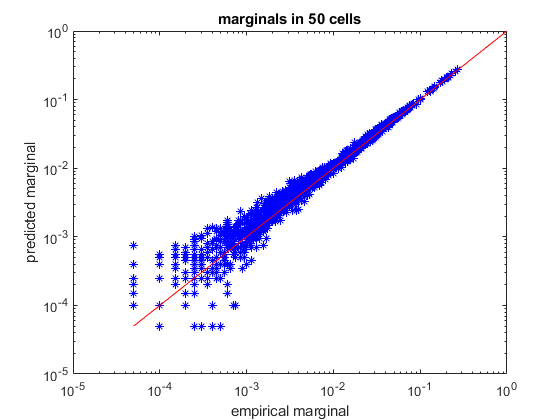
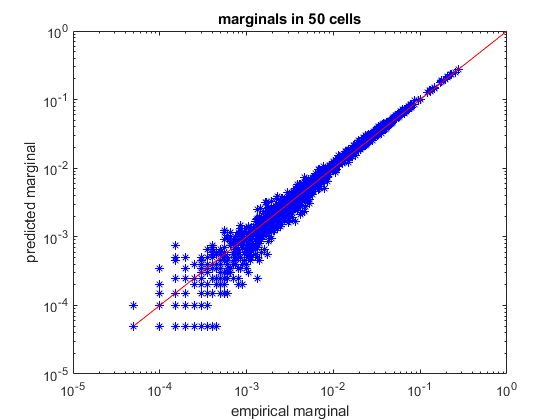
replaced sparsity with indegree in the example (RP)

diff --git a/docs/maxent_example.html b/docs/maxent_example.html
@@ -6,7 +6,7 @@
    <!--
 This HTML was auto-generated from MATLAB code.
 To make changes, update the MATLAB code and republish this document.
-      --><title>maxent_example</title><meta name="generator" content="MATLAB 9.3"><link rel="schema.DC" href="http://purl.org/dc/elements/1.1/"><meta name="DC.date" content="2018-07-09"><meta name="DC.source" content="maxent_example.m"><style type="text/css">
+      --><title>maxent_example</title><meta name="generator" content="MATLAB 9.3"><link rel="schema.DC" href="http://purl.org/dc/elements/1.1/"><meta name="DC.date" content="2018-08-07"><meta name="DC.source" content="maxent_example.m"><style type="text/css">
 html,body,div,span,applet,object,iframe,h1,h2,h3,h4,h5,h6,p,blockquote,pre,a,abbr,acronym,address,big,cite,code,del,dfn,em,font,img,ins,kbd,q,s,samp,small,strike,strong,sub,sup,tt,var,b,u,i,center,dl,dt,dd,ol,ul,li,fieldset,form,label,legend,table,caption,tbody,tfoot,thead,tr,th,td{margin:0;padding:0;border:0;outline:0;font-size:100%;vertical-align:baseline;background:transparent}body{line-height:1}ol,ul{list-style:none}blockquote,q{quotes:none}blockquote:before,blockquote:after,q:before,q:after{content:'';content:none}:focus{outine:0}ins{text-decoration:none}del{text-decoration:line-through}table{border-collapse:collapse;border-spacing:0}
 
 html { min-height:100%; margin-bottom:1px; }
@@ -118,9 +118,9 @@ title(sprintf(<span class="string">'marginals in %d cells'</span>,ncells));
 </pre><pre class="codeoutput">Training to threshold: 1.000 standard deviations
 Maximum MSE: 1.000
 converged (marginals match)
-Standard deviations from marginals: 0.090 (mean), 0.968 (max) [9]  DKL: 0.097
-Kullback-Leibler divergence from test set: 0.107325
-Model entropy: 6.470   empirical dataset entropy: 6.369
+Standard deviations from marginals: 0.097 (mean), 0.987 (max) [9]  DKL: 0.102
+Kullback-Leibler divergence from test set: 0.098116
+Model entropy: 6.464   empirical dataset entropy: 6.384
 </pre><img vspace="5" hspace="5" src="maxent_example_01.png" alt=""> <h2 id="3">part 2: working with larger distributions of neurons (MCMC)</h2><pre class="codeinput">load <span class="string">example50</span>
 
 <span class="comment">% randomly divide into train/test sets</span>
@@ -198,34 +198,33 @@ simulated_empirical_distribution = maxent.getEmpiricalModel(samples_simulated);
 fprintf(<span class="string">'Entropy of simulated data: %.03f bits\n'</span>,simulated_empirical_distribution.entropy);
 </pre><pre class="codeoutput">Training to threshold: 1.500 standard deviations
 Maximum samples: 17778   maximum MSE: 3.375
-360/Inf samples=5411  MSE=6.481 (mean), 58.812 (max) [43]
-434/Inf samples=11352  MSE=3.961 (mean), 59.231 (max) [2]
-477/Inf samples=17437  MSE=2.877 (mean), 49.526 (max) [2]
-511/Inf samples=17778  MSE=2.059 (mean), 31.914 (max) [40]
-545/Inf samples=17778  MSE=1.761 (mean), 28.907 (max) [12]
-581/Inf samples=17778  MSE=1.737 (mean), 15.406 (max) [13]
-617/Inf samples=17778  MSE=1.581 (mean), 8.481 (max) [31]
-652/Inf samples=17778  MSE=1.751 (mean), 11.608 (max) [410]
-687/Inf samples=17778  MSE=1.579 (mean), 11.190 (max) [398]
-722/Inf samples=17778  MSE=1.704 (mean), 8.920 (max) [1147]
-756/Inf samples=17778  MSE=1.616 (mean), 10.387 (max) [12]
-790/Inf samples=17778  MSE=1.516 (mean), 9.892 (max) [12]
-824/Inf samples=17778  MSE=1.536 (mean), 4.847 (max) [12]
-858/Inf samples=17778  MSE=1.595 (mean), 5.220 (max) [675]
-892/Inf samples=17778  MSE=1.682 (mean), 5.710 (max) [1150]
-926/Inf samples=17778  MSE=1.380 (mean), 4.979 (max) [1150]
-960/Inf samples=17778  MSE=1.570 (mean), 4.877 (max) [590]
-994/Inf samples=17778  MSE=1.439 (mean), 6.418 (max) [590]
-1029/Inf samples=17778  MSE=1.485 (mean), 4.675 (max) [291]
-1063/Inf samples=17778  MSE=1.460 (mean), 4.530 (max) [675]
-1098/Inf samples=17778  MSE=1.366 (mean), 5.089 (max) [410]
-1132/Inf samples=17778  MSE=1.390 (mean), 5.170 (max) [410]
-1166/Inf samples=17778  MSE=1.353 (mean), 3.855 (max) [1225]
+361/Inf samples=5466  MSE=6.504 (mean), 57.338 (max) [43]
+436/Inf samples=11581  MSE=3.315 (mean), 66.423 (max) [2]
+479/Inf samples=17778  MSE=2.391 (mean), 28.954 (max) [2]
+514/Inf samples=17778  MSE=1.754 (mean), 22.708 (max) [40]
+549/Inf samples=17778  MSE=1.699 (mean), 28.873 (max) [12]
+584/Inf samples=17778  MSE=1.642 (mean), 11.995 (max) [45]
+618/Inf samples=17778  MSE=1.716 (mean), 11.184 (max) [31]
+652/Inf samples=17778  MSE=1.644 (mean), 10.448 (max) [1166]
+686/Inf samples=17778  MSE=1.595 (mean), 8.928 (max) [1140]
+721/Inf samples=17778  MSE=1.820 (mean), 7.465 (max) [40]
+756/Inf samples=17778  MSE=1.508 (mean), 7.806 (max) [12]
+791/Inf samples=17778  MSE=1.491 (mean), 9.723 (max) [12]
+824/Inf samples=17778  MSE=1.521 (mean), 6.340 (max) [12]
+857/Inf samples=17778  MSE=1.412 (mean), 4.215 (max) [675]
+891/Inf samples=17778  MSE=1.541 (mean), 6.946 (max) [1264]
+925/Inf samples=17778  MSE=1.511 (mean), 5.560 (max) [142]
+960/Inf samples=17778  MSE=1.695 (mean), 7.271 (max) [1151]
+996/Inf samples=17778  MSE=1.601 (mean), 5.649 (max) [1151]
+1031/Inf samples=17778  MSE=1.464 (mean), 4.822 (max) [1151]
+1066/Inf samples=17778  MSE=1.291 (mean), 6.976 (max) [410]
+1102/Inf samples=17778  MSE=1.331 (mean), 3.873 (max) [23]
+1138/Inf samples=17778  MSE=1.297 (mean), 3.436 (max) [258]
 converged (marginals match)
 Normalizing model...
 [...............]
-Model entropy: 17.689 bits, empirical entropy (test set): 11.940 bits
-Entropy of simulated data: 12.485 bits
+Model entropy: 17.527 bits, empirical entropy (test set): 11.978 bits
+Entropy of simulated data: 12.490 bits
 </pre><img vspace="5" hspace="5" src="maxent_example_02.png" alt=""> <img vspace="5" hspace="5" src="maxent_example_03.png" alt=""> <h2 id="4">part 3: working with RP (random projection) models</h2><pre class="codeinput"><span class="comment">% load spiking data of 15 neurons</span>
 load <span class="string">example15</span>
 
@@ -250,8 +249,8 @@ model_logprobs = maxent.getLogProbability(model,empirical_distribution.words);
 test_dkl = maxent.dkl(empirical_distribution.logprobs,model_logprobs);
 fprintf(<span class="string">'Kullback-Leibler divergence from test set: %f\n'</span>,test_dkl);
 
-<span class="comment">% create a random projection model with a specified number of projections and specified sparsity</span>
-model = maxent.createModel(ncells,<span class="string">'rp'</span>,<span class="string">'nprojections'</span>,500,<span class="string">'sparsity'</span>,0.1);
+<span class="comment">% create a random projection model with a specified number of projections and specified average in-degree</span>
+model = maxent.createModel(ncells,<span class="string">'rp'</span>,<span class="string">'nprojections'</span>,500,<span class="string">'indegree'</span>,4);
 
 <span class="comment">% train the model</span>
 model = maxent.trainModel(model,samples_train,<span class="string">'threshold'</span>,1);
@@ -263,22 +262,24 @@ test_dkl = maxent.dkl(empirical_distribution.logprobs,model_logprobs);
 fprintf(<span class="string">'Kullback-Leibler divergence from test set: %f\n'</span>,test_dkl);
 </pre><pre class="codeoutput">Training to threshold: 1.000 standard deviations
 Maximum MSE: 1.000
-62/Inf  MSE=0.132 (mean), 24.269 (max) [1]  DKL: 0.130
-134/Inf  MSE=0.014 (mean), 7.109 (max) [1]  DKL: 0.116
-207/Inf  MSE=0.004 (mean), 2.248 (max) [1]  DKL: 0.113
-281/Inf  MSE=0.002 (mean), 1.304 (max) [1]  DKL: 0.111
+64/Inf  MSE=0.088 (mean), 4.981 (max) [65]  DKL: 0.122
+134/Inf  MSE=0.014 (mean), 2.213 (max) [65]  DKL: 0.112
 converged (marginals match)
-Standard deviations from marginals: 0.037 (mean), 0.996 (max) [1]  DKL: 0.111
-Kullback-Leibler divergence from test set: 0.115675
+Standard deviations from marginals: 0.072 (mean), 0.992 (max) [65]  DKL: 0.110
+Kullback-Leibler divergence from test set: 0.125975
 Training to threshold: 1.000 standard deviations
 Maximum MSE: 1.000
-11/Inf  MSE=5.037 (mean), 528.439 (max) [35]  DKL: 0.156
-29/Inf  MSE=0.089 (mean), 7.456 (max) [287]  DKL: 0.117
-47/Inf  MSE=0.024 (mean), 5.721 (max) [287]  DKL: 0.109
-64/Inf  MSE=0.009 (mean), 1.851 (max) [194]  DKL: 0.106
+09/Inf  MSE=56.463 (mean), 7086.771 (max) [69]  DKL: 0.243
+29/Inf  MSE=0.644 (mean), 58.533 (max) [69]  DKL: 0.121
+49/Inf  MSE=0.126 (mean), 15.019 (max) [364]  DKL: 0.108
+69/Inf  MSE=0.075 (mean), 8.094 (max) [364]  DKL: 0.103
+89/Inf  MSE=0.031 (mean), 3.065 (max) [364]  DKL: 0.100
+109/Inf  MSE=0.022 (mean), 3.862 (max) [125]  DKL: 0.097
+129/Inf  MSE=0.013 (mean), 2.741 (max) [125]  DKL: 0.095
+149/Inf  MSE=0.008 (mean), 1.318 (max) [125]  DKL: 0.094
 converged (marginals match)
-Standard deviations from marginals: 0.076 (mean), 0.992 (max) [194]  DKL: 0.105
-Kullback-Leibler divergence from test set: 0.107917
+Standard deviations from marginals: 0.083 (mean), 0.997 (max) [125]  DKL: 0.093
+Kullback-Leibler divergence from test set: 0.108484
 </pre><h2 id="5">part 4: specifying a custom list of correlations</h2><pre class="codeinput"><span class="comment">% load spiking data of 15 neurons</span>
 load <span class="string">example15</span>
 
@@ -320,17 +321,18 @@ ylabel(<span class="string">'predicted pattern log frequency'</span>);
 title(sprintf(<span class="string">'Third order model: activity patterns in %d cells'</span>,ncells));
 </pre><pre class="codeoutput">Training to threshold: 1.000 standard deviations
 Maximum MSE: 1.000
-25/Inf  MSE=4.135 (mean), 637.538 (max) [12]  DKL: 0.299
-53/Inf  MSE=1.394 (mean), 41.939 (max) [8]  DKL: 0.151
-82/Inf  MSE=0.574 (mean), 15.810 (max) [13]  DKL: 0.112
-111/Inf  MSE=0.170 (mean), 22.392 (max) [2]  DKL: 0.096
-139/Inf  MSE=0.118 (mean), 11.623 (max) [12]  DKL: 0.091
-168/Inf  MSE=0.060 (mean), 3.858 (max) [1]  DKL: 0.088
-196/Inf  MSE=0.069 (mean), 5.619 (max) [215]  DKL: 0.086
-224/Inf  MSE=0.043 (mean), 2.878 (max) [501]  DKL: 0.085
-252/Inf  MSE=0.021 (mean), 1.336 (max) [215]  DKL: 0.083
+26/Inf  MSE=3.765 (mean), 651.384 (max) [12]  DKL: 0.280
+55/Inf  MSE=1.461 (mean), 42.061 (max) [8]  DKL: 0.145
+84/Inf  MSE=0.555 (mean), 25.381 (max) [13]  DKL: 0.110
+113/Inf  MSE=0.251 (mean), 20.876 (max) [2]  DKL: 0.098
+142/Inf  MSE=0.125 (mean), 5.159 (max) [2]  DKL: 0.092
+171/Inf  MSE=0.089 (mean), 5.211 (max) [278]  DKL: 0.089
+199/Inf  MSE=0.047 (mean), 1.658 (max) [501]  DKL: 0.087
+228/Inf  MSE=0.028 (mean), 1.828 (max) [12]  DKL: 0.085
+255/Inf  MSE=0.025 (mean), 1.676 (max) [501]  DKL: 0.084
+282/Inf  MSE=0.023 (mean), 1.690 (max) [501]  DKL: 0.083
 converged (marginals match)
-Standard deviations from marginals: 0.140 (mean), 0.995 (max) [215]  DKL: 0.083
+Standard deviations from marginals: 0.116 (mean), 0.990 (max) [501]  DKL: 0.083
 </pre><img vspace="5" hspace="5" src="maxent_example_04.png" alt=""> <h2 id="6">part 5: constructing composite models</h2><pre class="codeinput"><span class="comment">% load spiking data of 15 neurons</span>
 load <span class="string">example15</span>
 
@@ -372,14 +374,15 @@ ylabel(<span class="string">'predicted pattern log frequency'</span>);
 title(sprintf(<span class="string">'Composite model: activity patterns in %d cells'</span>,ncells));
 </pre><pre class="codeoutput">Training to threshold: 1.000 standard deviations
 Maximum MSE: 1.000
-30/Inf  MSE=0.468 (mean), 14.750 (max) [12]  DKL: 0.119
-63/Inf  MSE=0.156 (mean), 3.632 (max) [194]  DKL: 0.108
-96/Inf  MSE=0.061 (mean), 2.847 (max) [150]  DKL: 0.104
-129/Inf  MSE=0.029 (mean), 1.941 (max) [25]  DKL: 0.101
-162/Inf  MSE=0.024 (mean), 5.039 (max) [24]  DKL: 0.100
-195/Inf  MSE=0.016 (mean), 2.325 (max) [24]  DKL: 0.099
+30/Inf  MSE=0.484 (mean), 26.973 (max) [12]  DKL: 0.122
+62/Inf  MSE=0.152 (mean), 4.076 (max) [24]  DKL: 0.111
+94/Inf  MSE=0.062 (mean), 2.372 (max) [150]  DKL: 0.106
+126/Inf  MSE=0.030 (mean), 1.534 (max) [458]  DKL: 0.104
+159/Inf  MSE=0.025 (mean), 4.956 (max) [24]  DKL: 0.103
+192/Inf  MSE=0.015 (mean), 1.924 (max) [24]  DKL: 0.101
+225/Inf  MSE=0.011 (mean), 1.095 (max) [458]  DKL: 0.100
 converged (marginals match)
-Standard deviations from marginals: 0.112 (mean), 1.000 (max) [24]  DKL: 0.098
+Standard deviations from marginals: 0.097 (mean), 1.000 (max) [458]  DKL: 0.100
 </pre><img vspace="5" hspace="5" src="maxent_example_05.png" alt=""> <h2 id="7">part 6: constructing and sampling from high order Markov chains</h2><p>train a time-dependent model</p><pre class="codeinput"><span class="comment">% load spiking data of 15 neurons</span>
 load <span class="string">example15_spatiotemporal</span>
 
@@ -464,30 +467,30 @@ title(<span class="string">'Synthetic data (2nd-order Markov)'</span>);
 </pre><pre class="codeoutput">training spatio-temporal model...
 Training to threshold: 1.300 standard deviations
 Maximum samples: 47335   maximum MSE: 2.535
-282/Inf samples=2463  MSE=19.636 (mean), 59.325 (max) [99]
-357/Inf samples=5250  MSE=9.601 (mean), 27.690 (max) [95]
-400/Inf samples=8082  MSE=6.189 (mean), 19.625 (max) [207]
-430/Inf samples=10906  MSE=4.545 (mean), 13.930 (max) [49]
-453/Inf samples=13723  MSE=3.734 (mean), 13.003 (max) [99]
-472/Inf samples=16589  MSE=3.225 (mean), 12.871 (max) [99]
-488/Inf samples=19459  MSE=2.753 (mean), 10.577 (max) [99]
-502/Inf samples=22374  MSE=2.366 (mean), 7.886 (max) [99]
-514/Inf samples=25217  MSE=2.080 (mean), 6.888 (max) [101]
-525/Inf samples=28140  MSE=1.899 (mean), 6.971 (max) [101]
-535/Inf samples=31088  MSE=1.725 (mean), 6.727 (max) [212]
-544/Inf samples=34005  MSE=1.569 (mean), 7.961 (max) [212]
-553/Inf samples=37195  MSE=1.435 (mean), 8.451 (max) [212]
-561/Inf samples=40280  MSE=1.339 (mean), 8.847 (max) [212]
-568/Inf samples=43189  MSE=1.235 (mean), 8.667 (max) [212]
-575/Inf samples=46307  MSE=1.166 (mean), 8.193 (max) [212]
-582/Inf samples=47335  MSE=1.105 (mean), 8.121 (max) [212]
-589/Inf samples=47335  MSE=1.045 (mean), 6.708 (max) [212]
-596/Inf samples=47335  MSE=1.004 (mean), 6.391 (max) [212]
-603/Inf samples=47335  MSE=0.983 (mean), 5.160 (max) [212]
-610/Inf samples=47335  MSE=0.959 (mean), 3.869 (max) [212]
-617/Inf samples=47335  MSE=0.970 (mean), 3.073 (max) [105]
-624/Inf samples=47335  MSE=0.950 (mean), 2.744 (max) [105]
-631/Inf samples=47335  MSE=0.932 (mean), 2.706 (max) [105]
+283/Inf samples=2488  MSE=19.036 (mean), 47.786 (max) [48]
+357/Inf samples=5250  MSE=9.391 (mean), 33.829 (max) [103]
+401/Inf samples=8163  MSE=6.096 (mean), 21.037 (max) [212]
+431/Inf samples=11016  MSE=4.558 (mean), 17.024 (max) [222]
+455/Inf samples=14000  MSE=3.666 (mean), 10.921 (max) [52]
+474/Inf samples=16923  MSE=3.058 (mean), 7.152 (max) [59]
+490/Inf samples=19851  MSE=2.590 (mean), 7.018 (max) [99]
+504/Inf samples=22824  MSE=2.239 (mean), 8.185 (max) [101]
+516/Inf samples=25725  MSE=1.969 (mean), 9.438 (max) [101]
+527/Inf samples=28707  MSE=1.797 (mean), 8.821 (max) [101]
+537/Inf samples=31713  MSE=1.656 (mean), 7.257 (max) [101]
+546/Inf samples=34690  MSE=1.598 (mean), 8.343 (max) [212]
+554/Inf samples=37567  MSE=1.502 (mean), 8.692 (max) [212]
+562/Inf samples=40683  MSE=1.403 (mean), 9.427 (max) [212]
+570/Inf samples=44058  MSE=1.310 (mean), 9.120 (max) [212]
+577/Inf samples=47239  MSE=1.227 (mean), 8.797 (max) [212]
+584/Inf samples=47335  MSE=1.150 (mean), 8.708 (max) [212]
+591/Inf samples=47335  MSE=1.082 (mean), 8.041 (max) [212]
+598/Inf samples=47335  MSE=1.008 (mean), 7.813 (max) [212]
+605/Inf samples=47335  MSE=0.978 (mean), 6.697 (max) [212]
+612/Inf samples=47335  MSE=0.925 (mean), 5.669 (max) [212]
+619/Inf samples=47335  MSE=0.902 (mean), 5.225 (max) [212]
+626/Inf samples=47335  MSE=0.905 (mean), 4.294 (max) [212]
+633/Inf samples=47335  MSE=0.908 (mean), 3.184 (max) [212]
 converged (marginals match)
 sampling from spatio-temporal model...
 </pre><img vspace="5" hspace="5" src="maxent_example_06.png" alt=""> <p class="footer"><br><a href="http://www.mathworks.com/products/matlab/">Published with MATLAB&reg; R2017b</a><br></p></div><!--
@@ -652,8 +655,8 @@ model_logprobs = maxent.getLogProbability(model,empirical_distribution.words);
 test_dkl = maxent.dkl(empirical_distribution.logprobs,model_logprobs);
 fprintf('Kullback-Leibler divergence from test set: %f\n',test_dkl);
 
-% create a random projection model with a specified number of projections and specified sparsity
-model = maxent.createModel(ncells,'rp','nprojections',500,'sparsity',0.1);
+% create a random projection model with a specified number of projections and specified average in-degree
+model = maxent.createModel(ncells,'rp','nprojections',500,'indegree',4);
 
 % train the model
 model = maxent.trainModel(model,samples_train,'threshold',1);

diff --git a/maxent_example.m b/maxent_example.m
@@ -158,8 +158,8 @@ model_logprobs = maxent.getLogProbability(model,empirical_distribution.words);
 test_dkl = maxent.dkl(empirical_distribution.logprobs,model_logprobs);
 fprintf('Kullback-Leibler divergence from test set: %f\n',test_dkl);
 
-% create a random projection model with a specified number of projections and specified sparsity
-model = maxent.createModel(ncells,'rp','nprojections',500,'sparsity',0.1);
+% create a random projection model with a specified number of projections and specified average in-degree
+model = maxent.createModel(ncells,'rp','nprojections',500,'indegree',4);
 
 % train the model
 model = maxent.trainModel(model,samples_train,'threshold',1);
